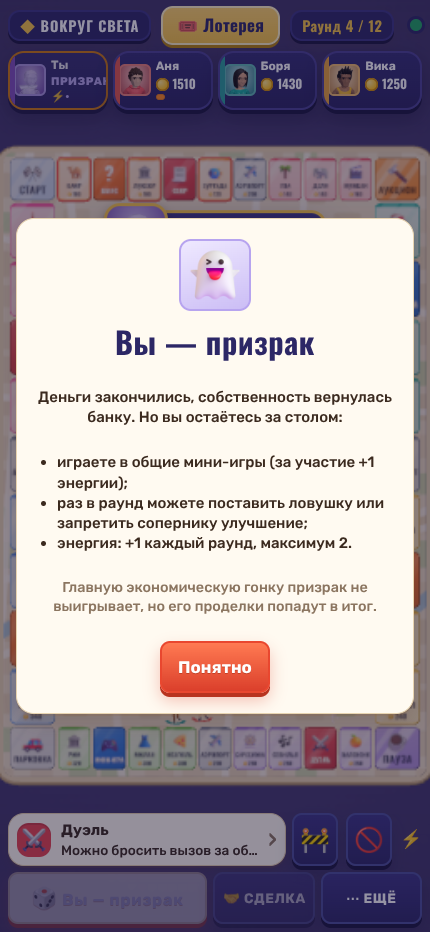
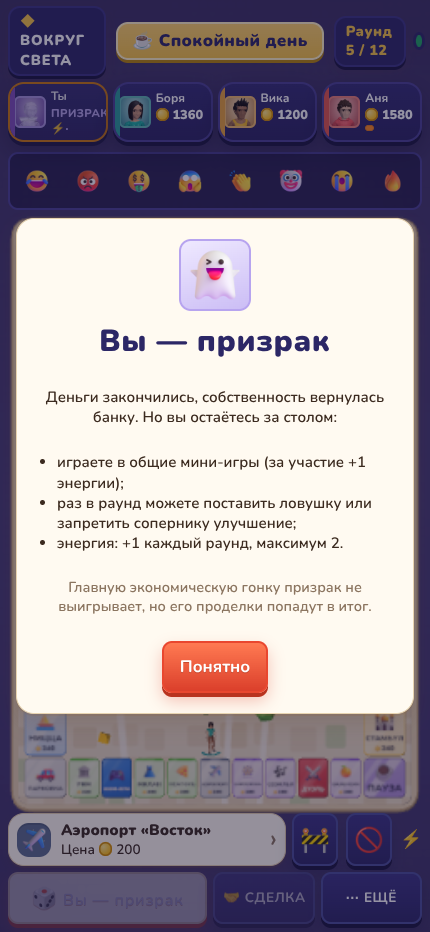
E2E screenshots and validation notes for maps/quick/reactions
Claude-Session: https://claude.ai/code/session_01LHF2r8ytZCnyCujdkcjUQd

diff --git a/docs/VALIDATION.md b/docs/VALIDATION.md
@@ -122,3 +122,9 @@
 | `npm run e2e` | ✅ 1/1 за 3,9 мин (в кадрах видны плашки событий «Фестиваль», «Лотерея», медали, титулы, 3D-портреты) |
 
 Проверено в облачном браузере дополнительно: старт с ботами через галочку, ходьба персонажа, штамп «КУПЛЕНО −150» при распродаже, карточка события раунда; ошибок в консоли нет. **Звук на слух не проверялся** (нет динамиков в облаке) — только отсутствие ошибок Web Audio.
+
+## 04.11.2026 — 3 карты, быстрая партия, реакции
+- `npm run typecheck` — без ошибок; `npm test` — **94/94** (7 файлов). Новые тесты: каждая карта проходит `validateMap` и совпадает с «Вокруг света» по виду клеток, группам, ценам, арендам и налогам; тексты карточек без «аэропорт»/«Париж» на других картах; сервер — выбранная карта и быстрая партия попадают в матч, «Случайная» даёт одну из трёх, неизвестная карта отклоняется, раздача по 2 объекта; реакции видны всем 4 клиентам, повтор раньше 1,2 с отбрасывается, мусор отклоняется схемой.
+- `npm run balance -- 40` / `-- 40 quick`: обычная — полных групп 0,75, уровней 3,2, сделок 0,6; быстрая (7 раундов + 2 объекта) — 1,38 / 8,0 / 1,15. Банкротств у ботов 0 в обеих.
+- `npm run e2e` — **1 passed (8,4 мин)**; до этих изменений было 3,9 мин. Первая попытка шла 9,6 мин: заставка карты на программном рендере не закрывалась и перекрывала поле, исправлено жёстким пределом в 6 с. Почему прогон всё ещё вдвое дольше, не выяснено: в нём случайная карта, плюс заставка до 6 с.
+- Скриншоты `docs/screenshots/maps/` — dev-витрина `showcase` (объекты розданы отладочной командой), ПК 1600×900, программный рендер. Телефон — только эмуляция размеров в E2E (`04-match-portrait-390.png`: панель реакций — отдельная строка под игроками).
